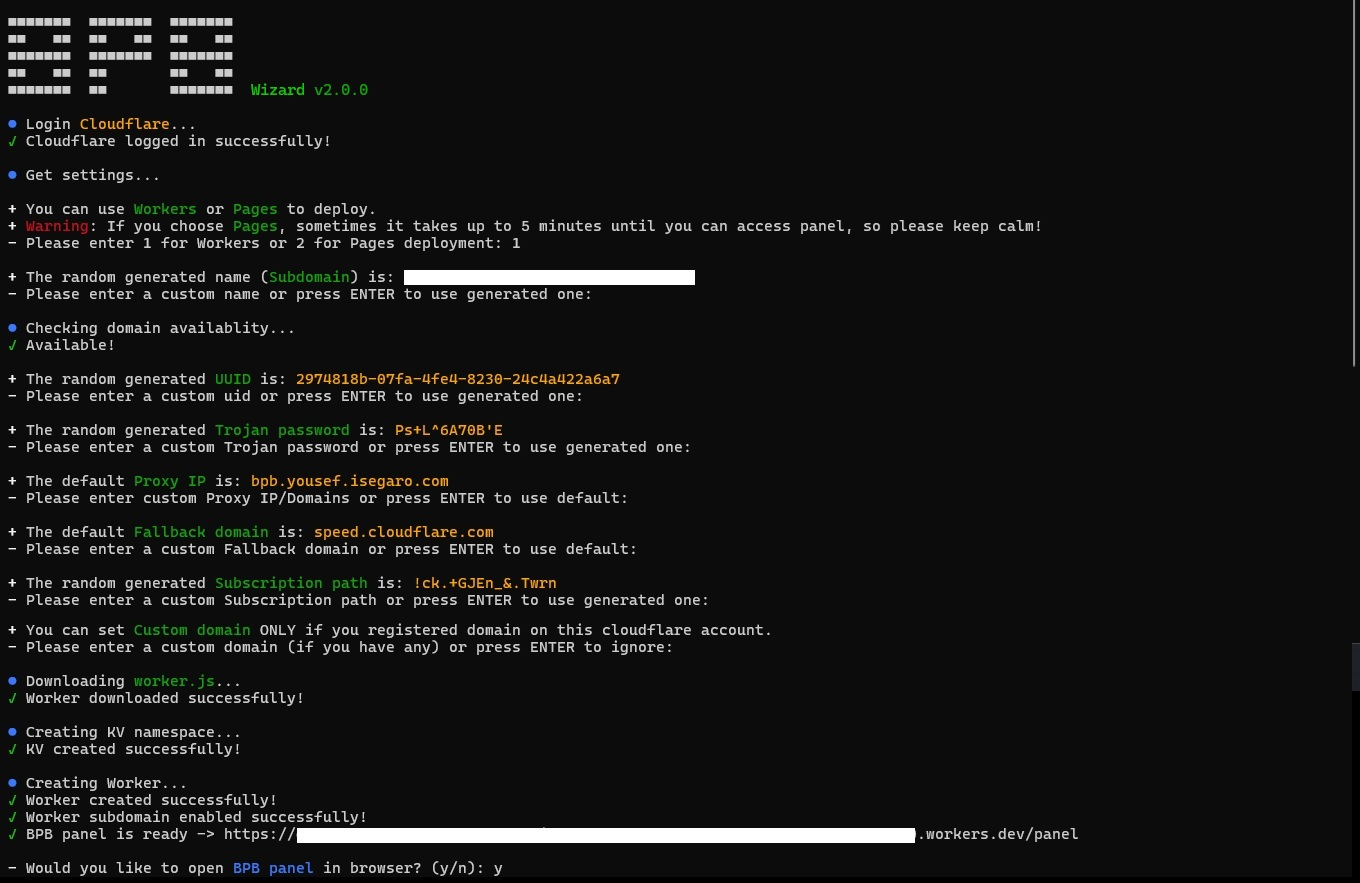
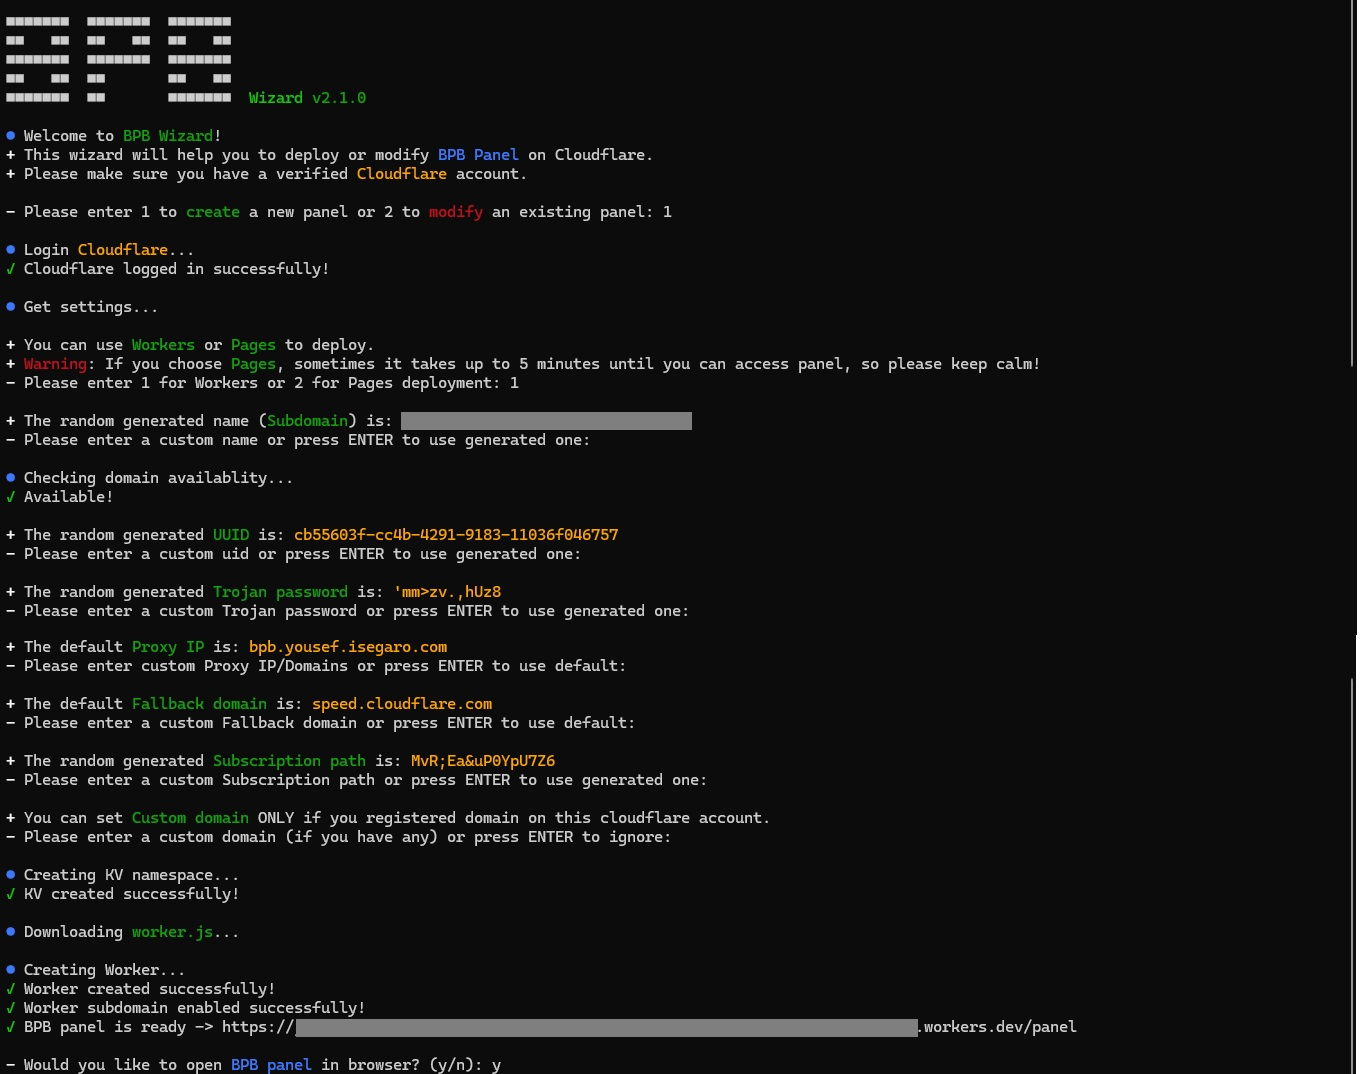
Updated docs, version -> 2.1.0

diff --git a/README.md b/README.md
@@ -1,6 +1,6 @@
 <h1 align="center">💦 BPB Wizard</h1>
 
-A wizard to facilitate [BPB Panel](https://github.com/bia-pain-bache/BPB-Worker-Panel) deployments.
+A wizard to facilitate [BPB Panel](https://github.com/bia-pain-bache/BPB-Worker-Panel) deployments and management.
 
 <p align="center">
   <img src="assets/wizard.jpg">
@@ -28,8 +28,10 @@ curl -L -# -o BPB-Wizard.zip https://github.com/bia-pain-bache/BPB-Wizard/releas
 ```
 
 > [!TIP]
-> 1- First it logs you in your Cloudflare account.
+> 1- First it asks whether you wanna create a panel or modify an existing one and then logs you in your Cloudflare account.
 >
-> 2- Wizard will ask some questions for setting Panel and Configs secrets. All secrets are generated safely and randomly. However, you can use default generated values or just enter desired values.
+> 2- Wizard will ask some questions for setting Panel and Configs secrets or modifying existing panels. All secrets are generated safely and randomly. However, you can use default generated values or just enter desired values.
 >
-> 3- Opens your Panel in browser! Enjoy it...
+> 3- In modification mode you can update your panel to the latest version or you can delete a panel.
+>
+> 4- if you chose creating panel, wizard opens your Panel in browser in the end! Enjoy it...

diff --git a/RELEASE.md b/RELEASE.md
@@ -1,11 +1,10 @@
 # BPB Wizard new edition
-The whole project is developed from scratch and the whole credit goes to @MAM-SYS, please don't forget to support him.
+From now on you can modify an existing panel, wizard will list all workers and pages, you can choose one, update to the latest BPB Panel or just delete it.
 
 ## ⚙ Bug fixes and Improvements
-- Added Termux support and scripts
-- Faster response and deployments now
-- Decreased binaries size from 90MB to ~19MB
-- Better error handling
-- Solid deployments
-- Cross-Platform binaries
-- Deployment bug fix #6 
+- Added data entry validation for UUID, Trojan password and, Proxy IPs and Subscription URI path...
+- Panel modification is added.
+- Bug fixes
+
+> [!TIP]
+> Pages deployments cannot be deleted if there is any assigned custom domain to the project. So, wizard removes asssigned custom domains first and then deletes panel.
